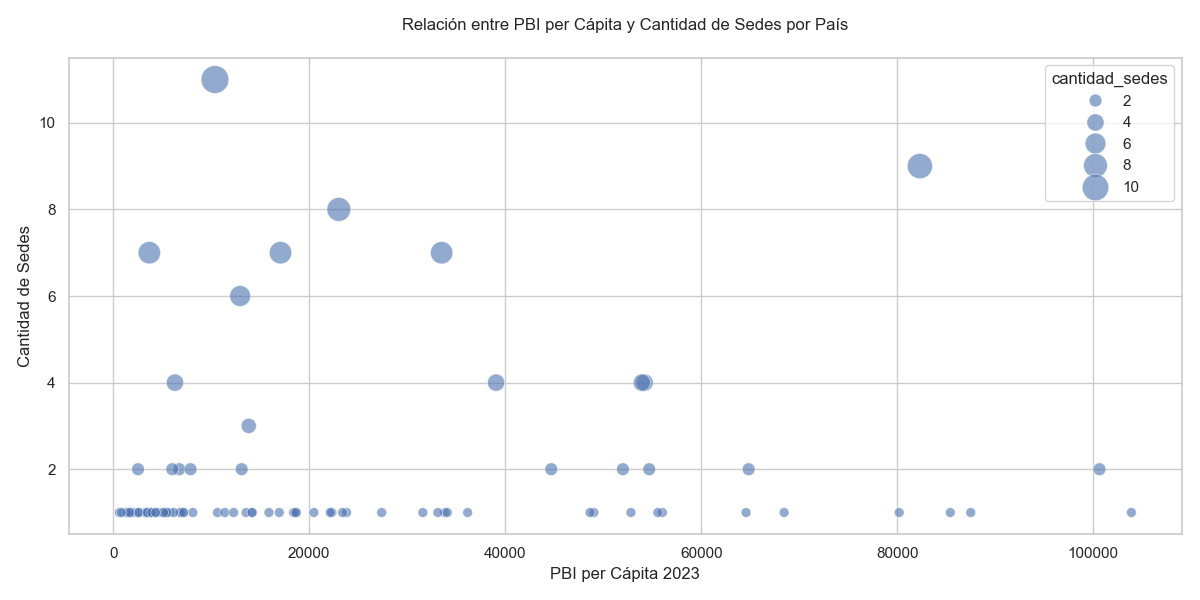
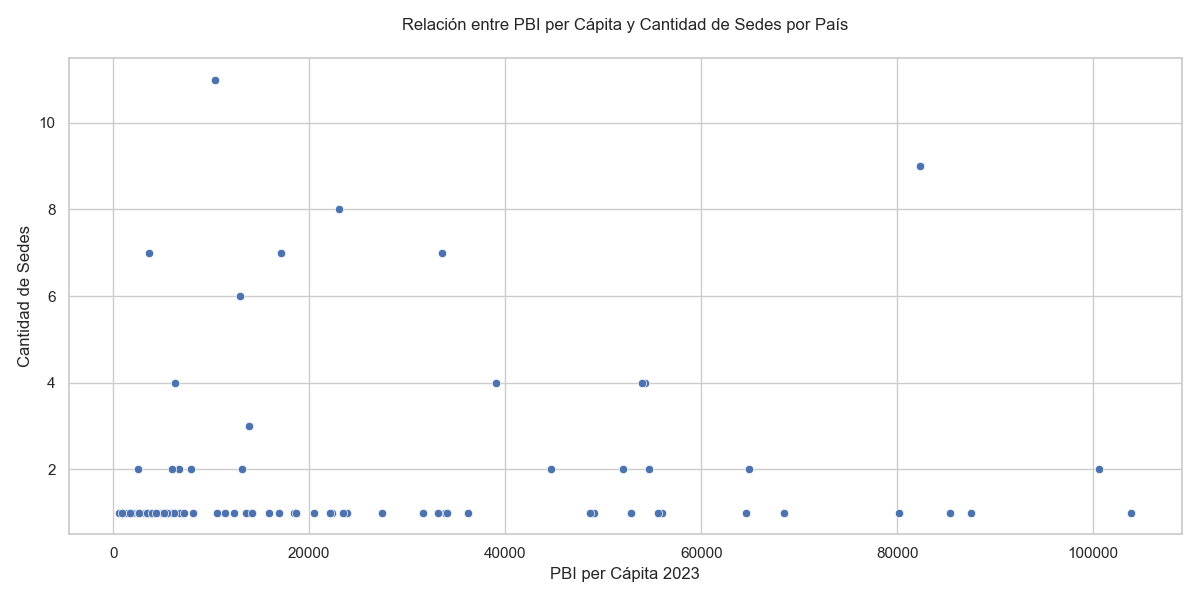
cambio de grafioc espantoso

diff --git a/reportes/grafico.py b/reportes/grafico.py
@@ -66,10 +66,7 @@ relacion_df = sedes_por_pais.merge(gdp_df,
 # Create scatter plot
 sns.scatterplot(data=relacion_df,
                 x='2023',
-                y='cantidad_sedes',
-                size='cantidad_sedes',  # Point size varies with number of sedes
-                sizes=(50, 400),        # Range of point sizes
-                alpha=0.6)              # Transparency
+                y='cantidad_sedes')              # Transparency
 
 plt.title('Relación entre PBI per Cápita y Cantidad de Sedes por País', pad=20)
 plt.xlabel('PBI per Cápita 2023')
